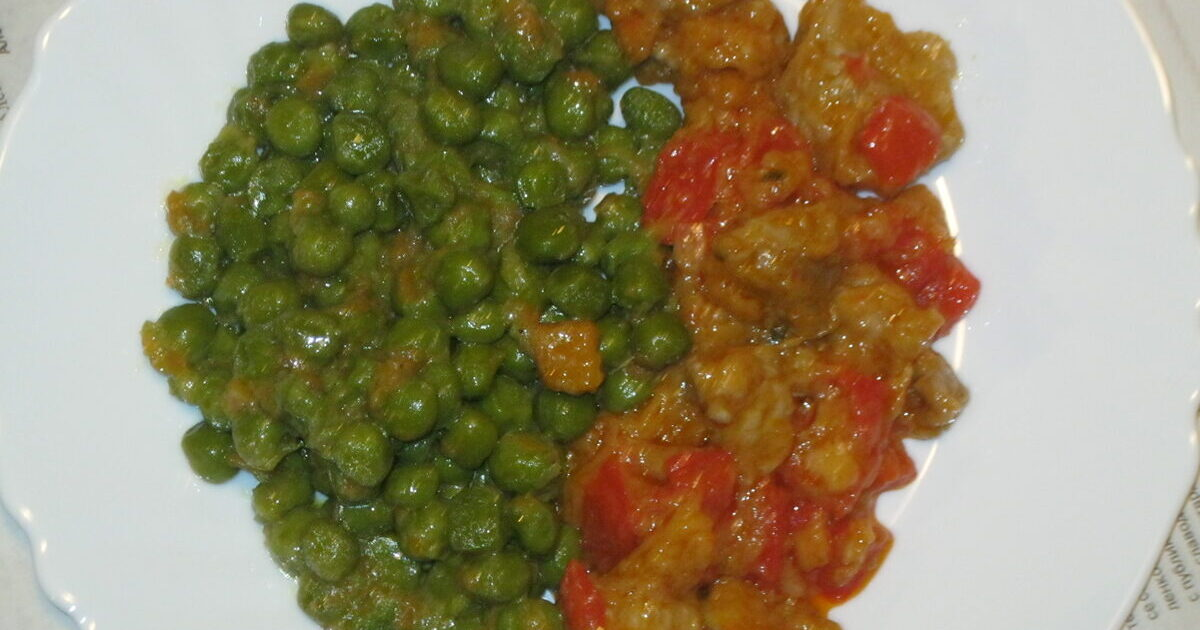
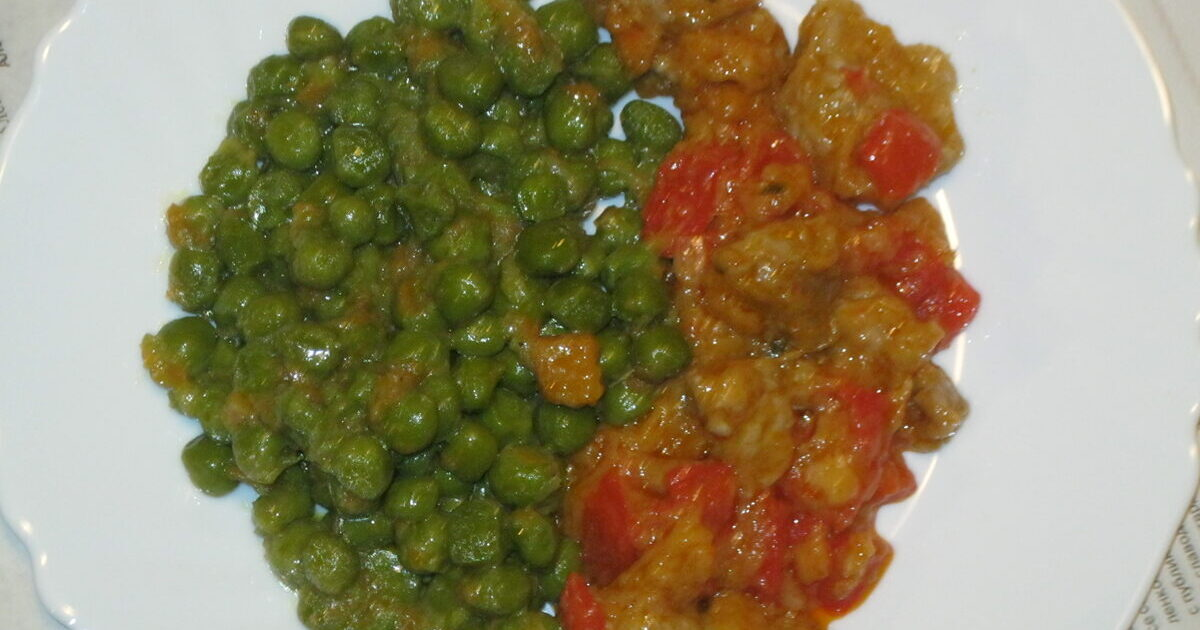
Recept: DINSTANI GRAŠAK — potpuno renoviran

diff --git a/_posts/2012-12-21-dinstani-grasak.md b/_posts/2012-12-21-dinstani-grasak.md
@@ -6,12 +6,15 @@ author: mila
 layout: post
 guid: http://superkuvar.com/?p=4924
 permalink: /dinstani-grašak/
+published: true
 fb_social_plugin_settings_box_like:
   - default
 fb_social_plugin_settings_box_send:
   - default
-image: /wp-content/uploads/2012/12/dinstani.grasak.hero.jpg
-description: Dinstani grašak sa crnim lukom, mirođijom i blagom zaprškom od brašna — klasičan prilog uz meso, šnicle ili pečenje. Može se pripremati i od zamrznutog graška.
+description: >-
+  Dinstani grašak je jednostavan, blag prilog od graška sa crnim lukom,
+  mirođijom i blagom zaprškom od brašna. Odličan je uz šnicle, pečenje ili
+  dinstano meso, za porodični ručak ili večeru.
 prep_time: PT10M
 cook_time: PT30M
 total_time: PT40M
@@ -28,11 +31,14 @@ ingredients:
   - 1 kašika brašna ili gustina
   - ulje
 instructions:
-  - Na zagrejanom ulju propržiti sitno seckani crni luk da blago porumeni.
-  - U propržen luk dodati grašak, sipati malo tople vode, poklopiti i dinstati uz povremeno dolivanje vode.
-  - Posoliti, dodati suvi biljni začin, biber i mirođiju.
-  - U malo hladne vode razmutiti brašno ili skrob i crvenu mlevenu papriku, pa sipati u grašak.
-  - Dinstati još desetak minuta na umerenoj temperaturi dok grašak ne omekša.
+  - Na zagrejanom ulju propržiti sitno seckani crni luk, da blago porumeni.
+  - U propržen luk dodati grašak, sipati malo tople vode, poklopiti i dinstati. U toku dinstanja povremeno dolivati po malo vode.
+  - Grašak posoliti, dodati suvi biljni začin, biber i mirođiju.
+  - U malo hladne vode razmutiti brašno ili skrob i crvenu mlevenu papriku pa sipati u grašak.
+  - Dinstati još desetak minuta na umerenoj temperaturi, dok grašak ne omekša.
+image: /wp-content/uploads/2012/12/dinstani.grasak.hero.jpg
+og_image: /wp-content/uploads/2012/12/dinstani.grasak.og.jpg
+card_image: /wp-content/uploads/2012/12/dinstani.grasak.kartica.jpg
 categories:
   - prilozi
 tags:
@@ -40,8 +46,6 @@ tags:
   - crni luk
   - grašak
   - mirođija
-og_image: /wp-content/uploads/2012/12/dinstani.grasak.og.jpg
-card_image: /wp-content/uploads/2012/12/dinstani.grasak.kartica.jpg
 ---
 **Način pripreme:**
 
@@ -55,4 +59,4 @@ card_image: /wp-content/uploads/2012/12/dinstani.grasak.kartica.jpg
 
 <span id="step-5"></span>**Korak 5.** Dinstati još desetak minuta na umerenoj temperaturi, dok grašak ne omekša.
 
-Grašak servirajte kao prilog uz dinstano meso, šnicle, piletinu ili pečenje i salatu.
+Grašak servirajte kao prilog uz dinstano meso, šnicle, piletinu ili pečenje i salatu. Blaga zaprška od brašna i paprike daje gustinu, a mirođija svež, domaći ukus.
